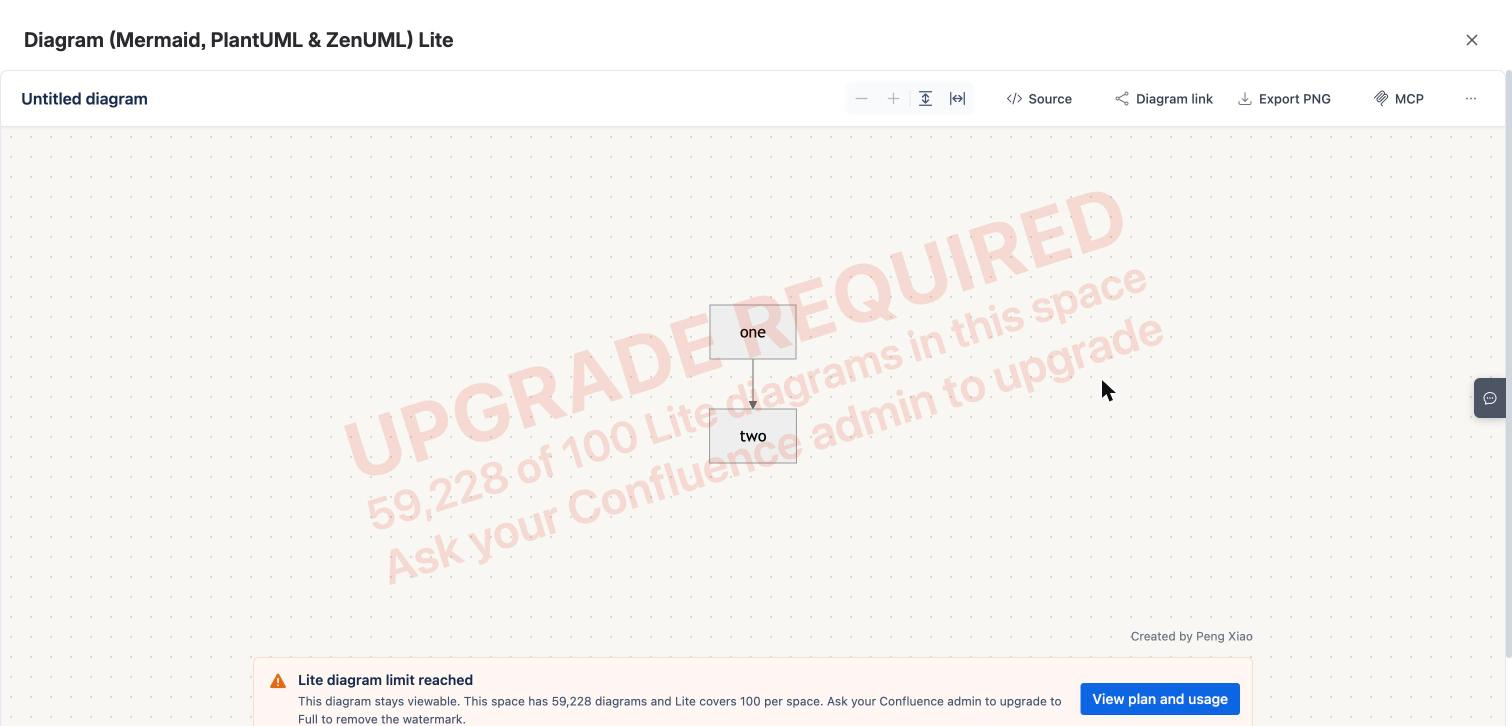
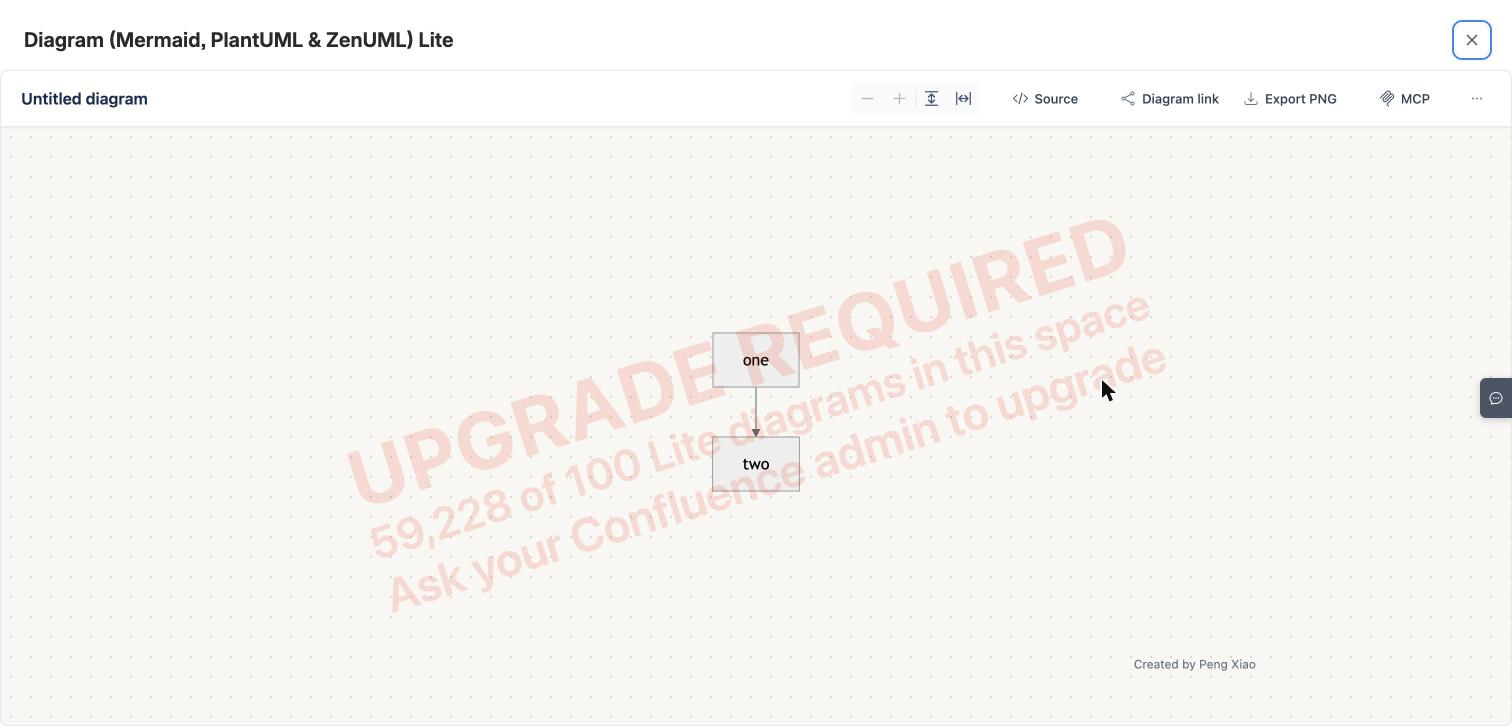
evidence: PR #1259 strip left out of Fullscreen

diff --git a/pr-1259/README.md b/pr-1259/README.md
@@ -1,10 +1,10 @@
-# PR #1259 evidence: license notice width in Fullscreen
+# PR #1259 evidence: license notice strip left out of Fullscreen
 
-- BEFORE: `90b58743c` (main) viewer CSS, with this PR's new story. AFTER: `e861fd3bf`.
+- BEFORE: `083f601e1` (main) viewer code, with this PR's story. AFTER: `fd02d86e1`.
 - Storybook (PRODUCT_TYPE=lite), story `viewer-genericviewer--mermaid-fullscreen-license-notice`, viewport 1600x900, fixture data (invented counts).
-  - `storybook-before.png`: strip box measured 2px wide; content overflows as a narrow card.
-  - `storybook-after.png`: strip measured 1000px wide, centred; button beside the text.
-- Forge tunnel, lite-dev, development environment, branch `claude/layout-issue-6958c4@e861fd3bf` shown in the macro dev bar, real Chrome 1512x726.
-  - `tunnel-after-fullscreen.jpg`: Fullscreen modal, strip fills the byline's column.
-  - Limitation: lite-dev has no enforcement policy, so the notice was forced on by a temporary local stub that was not committed. The CSS under test is the committed one.
-- Known and not changed here: at windows narrower than about 1650px the MCP promo corner card overlaps the strip's left end (visible in `storybook-after.png`).
+  - `storybook-before.png`: strip present in Fullscreen, its box 2px wide, content overflowing as a narrow card.
+  - `storybook-after.png`: no strip, watermark present, page does not scroll.
+- Forge tunnel, lite-dev, development environment, macro dev bar showed `claude/layout-issue-6958c4@fd02d86e1`, real Chrome 1512x726.
+  - `tunnel-after-inline.jpg`: inline macro still shows the strip.
+  - `tunnel-after-fullscreen.jpg`: Fullscreen modal shows the watermark only.
+  - Limitation: lite-dev has no enforcement policy, so the notice state was forced on by a temporary local stub that was not committed.
